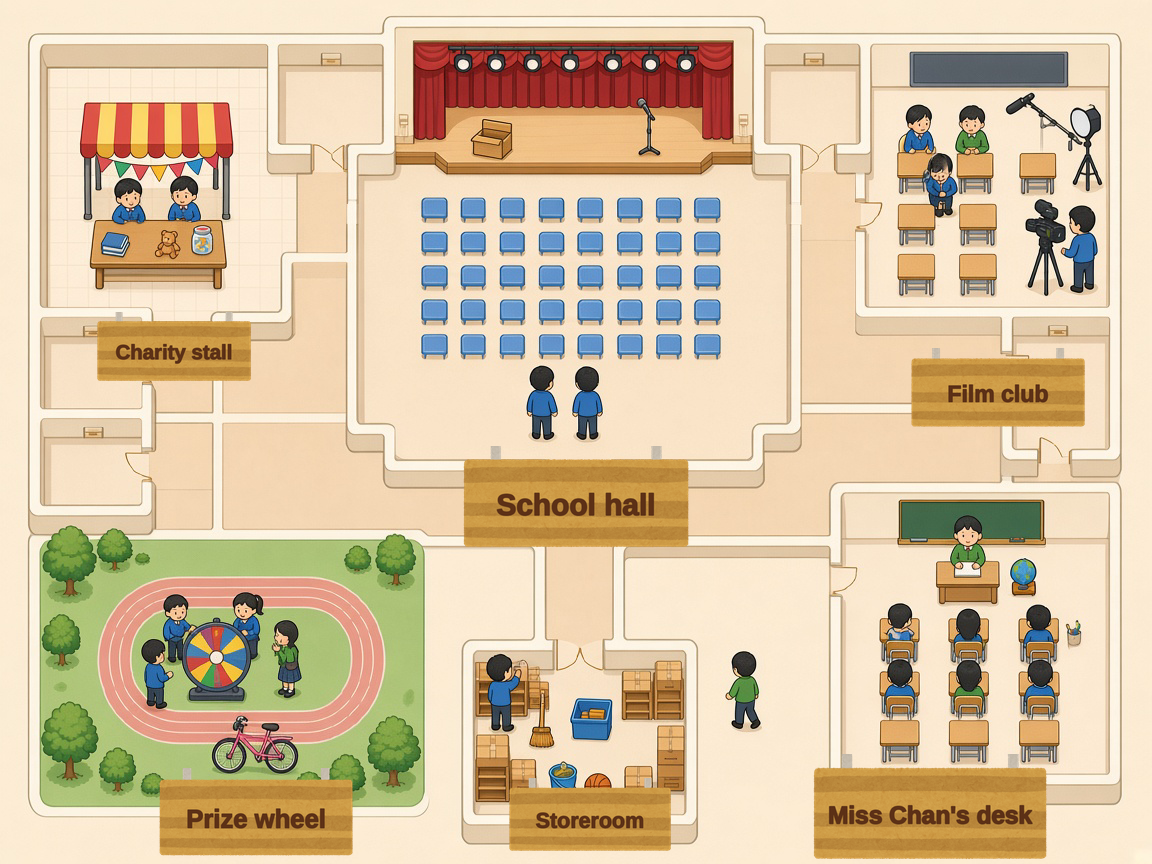
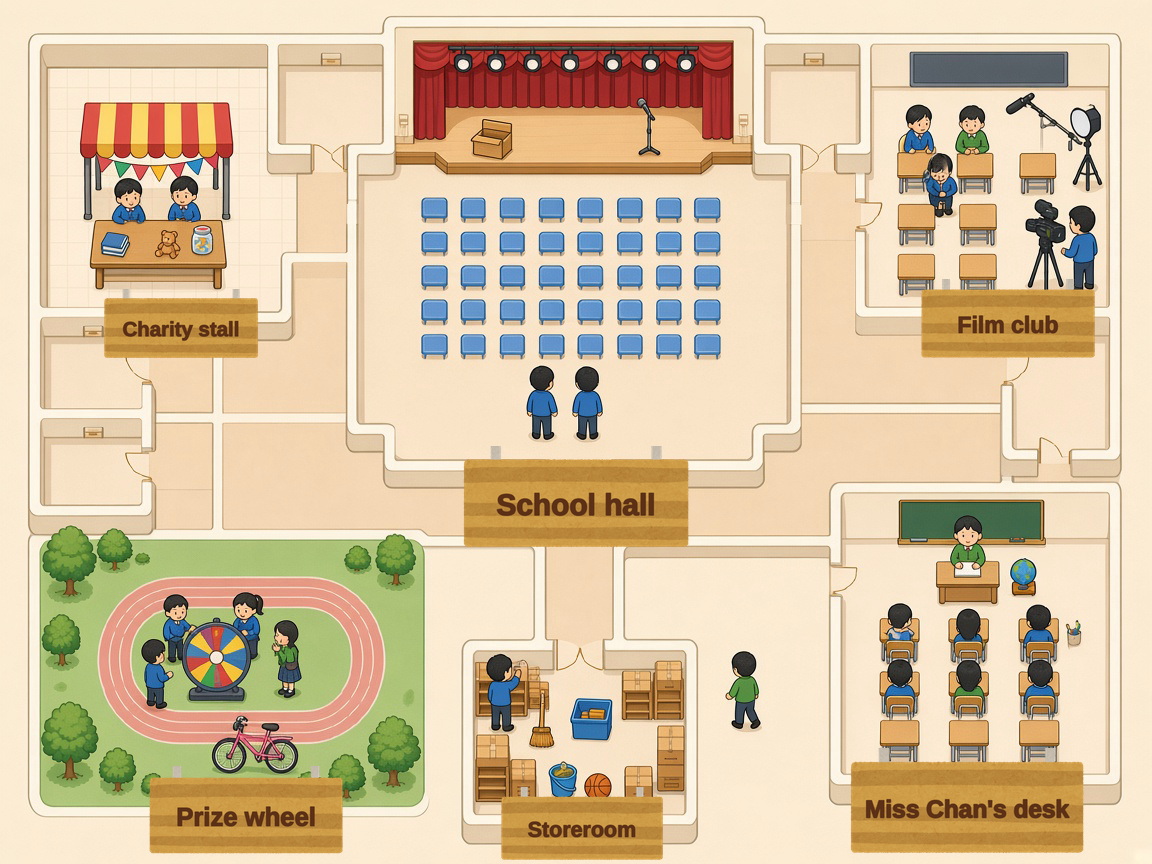
fix: center each school map plate on its place
Move the irasutoya plates onto the circled bottoms of the stall, film club, prize wheel, storeroom, and classroom, and keep School hall centered underneath.

diff --git a/game/clue-hunt.html b/game/clue-hunt.html
@@ -8,7 +8,7 @@
 <link rel="preconnect" href="https://fonts.gstatic.com" crossorigin/>
 <link href="https://fonts.googleapis.com/css2?family=Fredoka:wght@500;600;700&family=Nunito:wght@400;500;600;700&display=swap" rel="stylesheet"/>
 <link rel="stylesheet" href="../practice/grammar/grammar.css?v=36"/>
-<link rel="stylesheet" href="game.css?v=20"/>
+<link rel="stylesheet" href="game.css?v=21"/>
 </head>
 <body>
 <header class="prac-header">
@@ -44,7 +44,7 @@
         <h2 class="hunt-q">School fair</h2>
         <div class="fair-map">
           <!-- Place plates: いらすとや https://www.irasutoya.com/2014/12/blog-post_13.html with English names. -->
-          <img class="fair-map-base" src="illust/map-school-doorplates.png" alt="School floor plan" width="1152" height="864"/>
+          <img class="fair-map-base" src="illust/map-school-doorplates.png?v=2" alt="School floor plan" width="1152" height="864"/>
           <button type="button" class="hotspot pin-stall" data-hotspot="stall"><span>Charity stall</span></button>
           <button type="button" class="hotspot pin-wheel" data-hotspot="wheel"><span>Prize wheel</span></button>
           <button type="button" class="hotspot pin-film" data-hotspot="film"><span>Film club</span></button>

diff --git a/game/game.css b/game/game.css
@@ -90,12 +90,12 @@
   color: transparent;
   pointer-events: none;
 }
-.pin-stall { left: 7%; top: 8%; width: 22%; height: 24%; }
-.pin-wheel { left: 8%; top: 60%; width: 28%; height: 32%; }
-.pin-film { left: 72%; top: 8%; width: 24%; height: 32%; }
-.pin-hall { left: 32%; top: 6%; width: 36%; height: 42%; }
-.pin-desk { left: 68%; top: 52%; width: 28%; height: 40%; }
-.pin-store { left: 40%; top: 64%; width: 24%; height: 30%; }
+.pin-stall { left: 7%; top: 8%; width: 22%; height: 35%; }
+.pin-wheel { left: 8%; top: 60%; width: 28%; height: 40%; }
+.pin-film { left: 72%; top: 8%; width: 24%; height: 35%; }
+.pin-hall { left: 32%; top: 6%; width: 36%; height: 58%; }
+.pin-desk { left: 68%; top: 52%; width: 28%; height: 48%; }
+.pin-store { left: 40%; top: 64%; width: 24%; height: 36%; }
 .hotspot:hover,
 .hotspot:focus,
 .hotspot:focus-visible {

diff --git a/test/clue-hunt-map.test.js b/test/clue-hunt-map.test.js
@@ -77,7 +77,7 @@ test('notebook and solve page are present, without a missing-person picker', () 
 test('clue hunt styles use fills and contain the pictures', () => {
   const html = huntHtml();
   const css = fs.readFileSync(path.join(root, 'game/game.css'), 'utf8');
-  assert.match(html, /game\.css\?v=20/);
+  assert.match(html, /game\.css\?v=21/);
   assert.doesNotMatch(css, /#e25c12/);
   assert.match(css, /\.fair-map \{/);
   assert.match(css, /\.hotspot \{[^}]*position:\s*absolute/);
